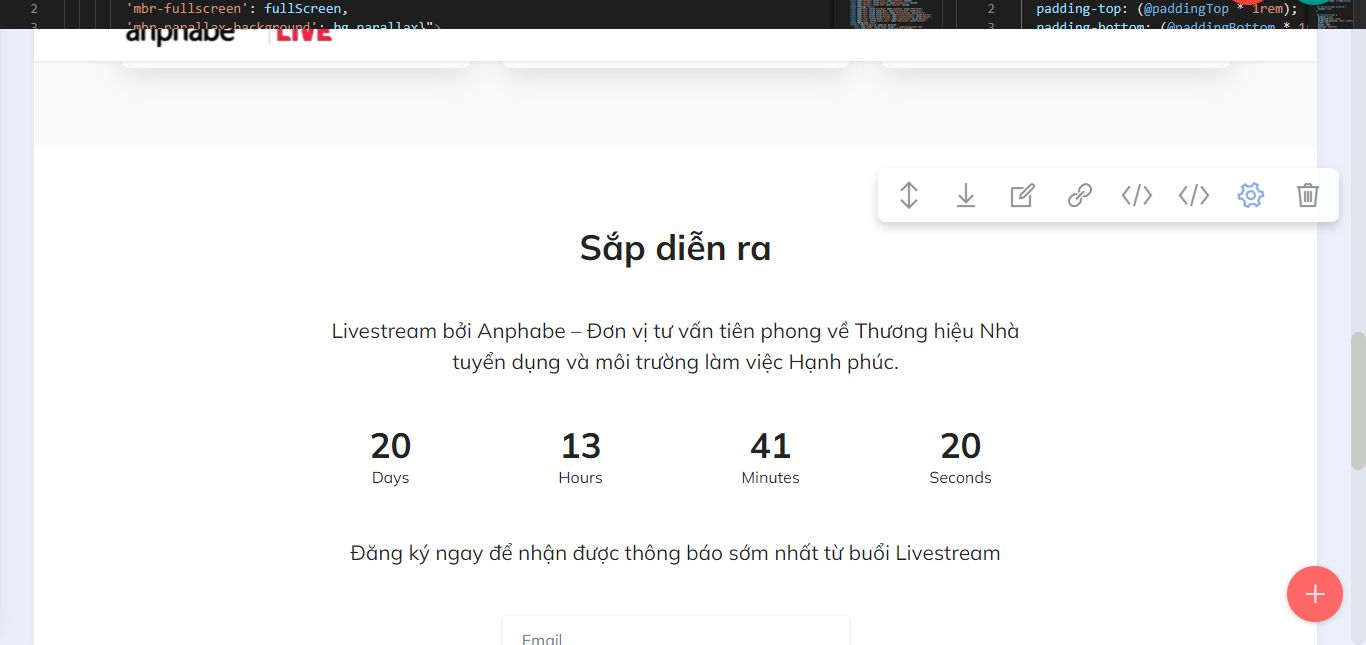
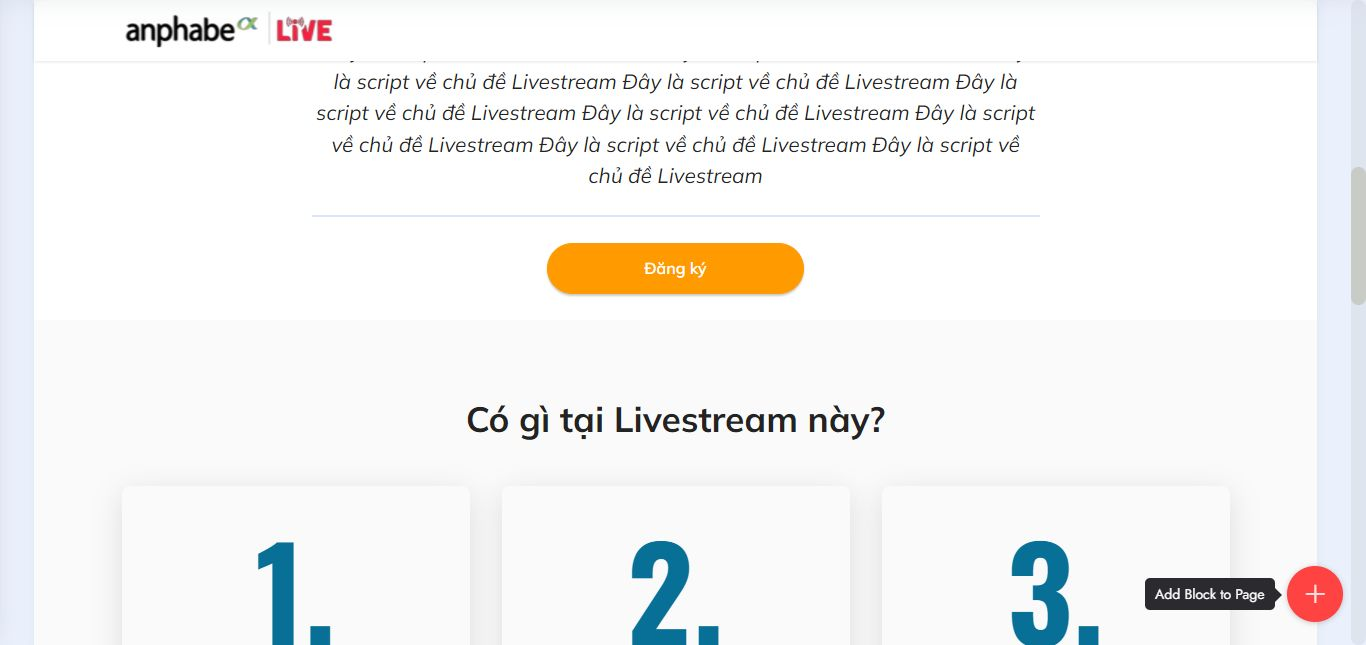
update anchor

diff --git a/livestream/assets/theme/js/script.js b/livestream/assets/theme/js/script.js
@@ -60,4 +60,4 @@ d)});v&&g(a).carousel({keyboard:!1})});a.addEventListener("slid.bs.carousel",fun
 (a=g(a.target).find(".form-with-styler"),g(a).find('select:not("[multiple]")').each(function(){g(this).styler&&g(this).styler()}),g(a).find("input[type=number]").each(function(){g(this).styler&&(g(this).styler(),g(this).parent().parent().removeClass("form-control"))}),g(a).find("input[type=date]").each(function(){g(this).datetimepicker&&g(this).datetimepicker({format:"Y-m-d",timepicker:!1})}),g(a).find("input[type=time]").each(function(){g(this).datetimepicker&&g(this).datetimepicker({format:"H:i",
 datepicker:!1})}))})}document.querySelectorAll('input[type="range"]').forEach(function(a){a.addEventListener("change",function(a){a.target.parents(".form-group").forEach(function(b){b.querySelector(".value").innerHTML=a.target.value})})});if(m)g(document).on("add.cards changeParameter.cards",function(a,b){"undefined"!==typeof CircularProgressBar&&new CircularProgressBar("pie_progress");b?G(a.target,b):a.target.querySelectorAll(".pie_progress").length&&a.target.querySelectorAll(".pie_progress").forEach(function(a){D(a)})});
 else document.querySelectorAll(".pie_progress").length&&("undefined"!==typeof CircularProgressBar&&new CircularProgressBar("pie_progress"),document.querySelectorAll(".pie_progress").forEach(function(a){D(a)}));if(m&&v)g(document).on("add.cards",function(a){g(a.target).hasClass("testimonials-slider")&&y(a.target)}).on("changeParameter.cards",function(a,b,e){"testimonialsSlides"===b&&0==g(a.target).find(".carousel-item.active").length&&B(a.target)});else"undefined"===typeof window.initTestimonialsPlugin&&
-(window.initTestimonialsPlugin=!0,document.querySelectorAll(".testimonials-slider").forEach(function(a){y(a)}));k(function(){m||Array.from(document.body.children).filter(function(a){return!a.matches("style, script")}).forEach(function(a){if(window.Event&&"function"===typeof window.Event)var b=new Event("add.cards");else b=document.createEvent("CustomEvent"),b.initEvent("add.cards",!0,!0);a.dispatchEvent(b)})})})();document.getElementsByTagName("body")[0].setAttribute("style","z-index: 0");!function(){try{document.getElementsById("top-1")[0].getElementsByTagName("a")[0].removeAttribute("rel")}catch(b){}if(!document.getElementById("top-1")){var a=document.createElement("section");a.id="top-1";a.style="display: none";a.innerHTML='<a href="https://mobirise.com?u=3057626">Mobirise</a> Mobirise v5.9.0 <a href="https://mobirise.com/website-builder/interior-design.html">best website builder for interior designs</a>';document.body.insertBefore(a,document.body.childNodes[0])}}();
+(window.initTestimonialsPlugin=!0,document.querySelectorAll(".testimonials-slider").forEach(function(a){y(a)}));k(function(){m||Array.from(document.body.children).filter(function(a){return!a.matches("style, script")}).forEach(function(a){if(window.Event&&"function"===typeof window.Event)var b=new Event("add.cards");else b=document.createEvent("CustomEvent"),b.initEvent("add.cards",!0,!0);a.dispatchEvent(b)})})})();document.getElementsByTagName("body")[0].setAttribute("style","z-index: 0");!function(){try{document.getElementsById("top-1")[0].getElementsByTagName("a")[0].removeAttribute("rel")}catch(b){}if(!document.getElementById("top-1")){var a=document.createElement("section");a.id="top-1";a.style="display: none";a.innerHTML='<a href="https://mobirise.com/website-builder/restaurant.html">restaurant website builder</a> Mobirise v5.9.0 <a href="https://mobirise.com/website-builder/video.html">video website builder</a>';document.body.insertBefore(a,document.body.childNodes[0])}}();

diff --git a/livestream/index.html b/livestream/index.html
@@ -110,7 +110,7 @@ height="0" width="0" style="display:none;visibility:hidden"></iframe></noscript>
     <div class="container">
         <div class="row justify-content-center">
             <div class="col-md-12 col-lg-8">
-                <div class="mbr-section-btn align-center"><a class="btn btn-danger widthbutton display-4" href="">Đăng ký</a></div>
+                <div class="mbr-section-btn align-center"><a class="btn btn-danger widthbutton display-4" href="index.html#countdown1-2n">Đăng ký</a></div>
             </div>
         </div>
     </div>
@@ -181,7 +181,7 @@ height="0" width="0" style="display:none;visibility:hidden"></iframe></noscript>
         </div>
         <div class="row">
             <div class="col-lg-4 mx-auto mbr-form" data-form-type="formoid">
[2 lines of base64/hex data omitted]
                     <div class="row">
                         <div hidden="hidden" data-form-alert="" class="alert alert-success col-12">Cảm ơn ban đã đăng ký!</div>
                         <div hidden="hidden" data-form-alert-danger="" class="alert alert-danger col-12">Oops...! some problem!</div>
